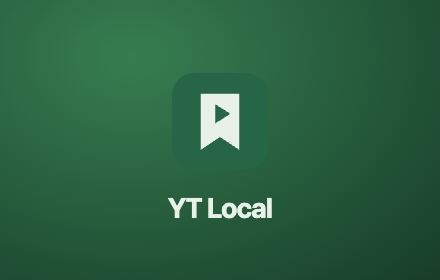
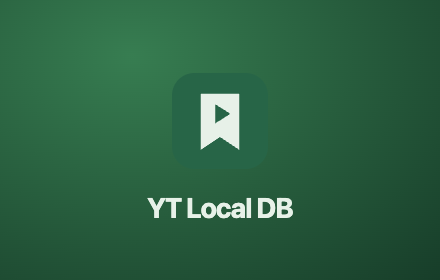
Rename extension to YT Local DB
Update the popup, store listing, screenshots, and privacy docs. Bump to 0.1.1 for the renamed Chrome Web Store upload.

Changed region(s): [[0.325, 0.6857, 0.6795, 0.8]]

diff --git a/popup.html b/popup.html
@@ -3,14 +3,14 @@
   <head>
     <meta charset="utf-8">
     <meta name="viewport" content="width=device-width, initial-scale=1">
-    <title>YT Local</title>
+    <title>YT Local DB</title>
     <link rel="stylesheet" href="popup.css">
     <script src="popup.js" defer></script>
   </head>
   <body>
     <header>
       <div class="heading">
-        <h1>YT Local<span>.</span></h1>
+        <h1>YT Local DB<span>.</span></h1>
         <span class="local-badge">On device</span>
       </div>
       <p>Pick up where you left off.</p>

diff --git a/content.js b/content.js
@@ -50,7 +50,7 @@
 
   function reportError(error) {
     lastSavedVideo = null; // Allow the next playback event to retry.
-    console.warn("YT Local could not save playback progress:", error);
+    console.warn("YT Local DB could not save playback progress:", error);
   }
 
   for (const event of ["timeupdate", "pause", "seeked", "ended"]) {

diff --git a/popup.js b/popup.js
@@ -61,7 +61,7 @@ async function refresh() {
 function showError(error) {
   status.hidden = false;
   status.textContent = "Could not access local history. Try reopening the extension.";
-  console.error("YT Local:", error);
+  console.error("YT Local DB:", error);
 }
 
 clearButton.addEventListener("click", async () => {

diff --git a/store/LISTING.md b/store/LISTING.md
@@ -6,8 +6,8 @@ These are prepared listing materials, not confirmation of a store publication. T
 
 Run `npm run package` to create:
 
-- `dist/yt-local-db-0.1.0.zip` — upload this as the extension package.
-- `dist/yt-local-db-store-assets-0.1.0.zip` — unpack this for listing images and this guide; do not upload it as the extension package.
+- `dist/yt-local-db-0.1.1.zip` — upload this as the extension package.
+- `dist/yt-local-db-store-assets-0.1.1.zip` — unpack this for listing images and this guide; do not upload it as the extension package.
 
 Listing images:
 
@@ -20,7 +20,7 @@ The screenshots use fictional example history, not the developer's personal view
 
 ## Store listing
 
-**Name:** YT Local
+**Name:** YT Local DB
 
 **Summary (from the manifest):**
 
@@ -35,7 +35,7 @@ Remember YouTube videos and playback progress locally, without enabling YouTube 
 ```text
 Remember where you stopped, without enabling YouTube watch history.
 
-YT Local saves your YouTube watch history and playback progress in this browser. Open the toolbar popup to find a recently watched video and resume from your saved position.
+YT Local DB saves your YouTube watch history and playback progress in this browser. Open the toolbar popup to find a recently watched video and resume from your saved position.
 
 Features
 • Local watch history, most recent first
@@ -47,7 +47,7 @@ Features
 
 No extension account, backend, analytics, or cloud sync. Open source under the MIT license.
 
-Important: keep YouTube's own watch history paused yourself. YT Local does not change your Google account settings, hide recommendations, or prevent YouTube from observing normal page and video requests.
+Important: keep YouTube's own watch history paused yourself. YT Local DB does not change your Google account settings, hide recommendations, or prevent YouTube from observing normal page and video requests.
 
 Desktop Chrome only. Regular YouTube watch-page videos are supported; Shorts, embeds, and live streams with unbounded duration are not. Opening a video outside the popup does not automatically seek to the saved position. Removing the extension deletes its saved data.
 
@@ -111,7 +111,7 @@ No extension account or credentials are required.
 1. In a normal desktop Chrome window, open a regular public YouTube video, for example https://www.youtube.com/watch?v=aqz-KE-bpKQ.
 2. Keep YouTube watch history paused if signed in; the extension does not change that setting.
 3. Play or seek the video to at least 30 seconds, then pause. Allow up to five seconds if YouTube is still loading its watch-page metadata.
-4. Open YT Local from the toolbar. Verify the video title, playback timestamp, and progress bar appear.
+4. Open YT Local DB from the toolbar. Verify the video title, playback timestamp, and progress bar appear.
 5. Click Resume. Verify a new YouTube tab opens with the saved timestamp in the URL.
 6. Delete the entry. Verify it disappears. Further playback of that video may record it again.
 7. Add another video and use Clear all. Verify the confirmation prompt and empty history state.
@@ -123,7 +123,7 @@ The extension does not automatically seek on unrelated YouTube visits and does n
 
 1. Sign in to the [Chrome Web Store developer dashboard](https://chrome.google.com/webstore/devconsole).
 2. If needed, register, accept Google's agreements, and pay the one-time registration fee yourself. Set your publisher name, verify the contact email, and complete any account/security checks required by the dashboard.
-3. Add a new item and upload `dist/yt-local-db-0.1.0.zip`.
+3. Add a new item and upload `dist/yt-local-db-0.1.1.zip`.
 4. Fill the listing, upload the icon, promotional tile, and screenshots, and paste the homepage/support/privacy URLs.
 5. Fill Privacy practices using the answers above; review them before certifying.
 6. Choose free, public distribution and your intended regions. Complete any account-specific declarations shown by Google.

diff --git a/PRIVACY.md b/PRIVACY.md
@@ -1,6 +1,6 @@
 # Privacy
 
-YT Local stores these fields for each watched video:
+YT Local DB stores these fields for each watched video:
 
 - YouTube video ID and title
 - Last playback position and video duration
@@ -8,7 +8,7 @@ YT Local stores these fields for each watched video:
 
 Data is stored in `chrome.storage.local` in the current browser profile and used only to provide the local history and resume feature. The extension does not use Chrome Sync, a server, analytics, Google account APIs, or remote images, fonts, or scripts. It makes no application network requests. Clicking Resume or a video title opens the normal YouTube website with that video's ID and playback timestamp in the URL.
 
-YT Local's use of user data complies with the Chrome Web Store User Data Policy, including its Limited Use requirements. Saved history is not sold or shared with the developer or third parties, is not used for advertising or credit decisions, and is not available for the developer to read.
+YT Local DB's use of user data complies with the Chrome Web Store User Data Policy, including its Limited Use requirements. Saved history is not sold or shared with the developer or third parties, is not used for advertising or credit decisions, and is not available for the developer to read.
 
 The extension requests only the `storage` API permission and content-script access to `https://www.youtube.com/*`. Access to the whole desktop YouTube site is needed because navigating from the homepage to a video often happens without a page reload. Only regular `/watch?v=…` pages are recorded. Incognito operation is disabled. No browser-wide history is accessed.
 

diff --git a/README.md b/README.md
@@ -1,4 +1,4 @@
-# YT Local
+# YT Local DB
 
 **Pick up where you left off. Keep your history local.**
 
@@ -6,7 +6,7 @@ A tiny, open-source Chrome extension that remembers YouTube videos and playback 
 
 Repository name: `yt-local-db`. No database library, framework, runtime dependencies, account, or server.
 
-![YT Local popup with example history](store/screenshot-light-1280x800.png)
+![YT Local DB popup with example history](store/screenshot-light-1280x800.png)
 
 ## What it does
 
@@ -24,7 +24,7 @@ Progress saves at most every five seconds during playback, and also on pause, se
 2. Open `chrome://extensions` in desktop Chrome.
 3. Enable **Developer mode**.
 4. Click **Load unpacked** and select the unzipped extension folder (or cloned `yt-local-db` folder) containing `manifest.json`.
-5. Pin **YT Local** to the toolbar and reload any already-open YouTube tabs.
+5. Pin **YT Local DB** to the toolbar and reload any already-open YouTube tabs.
 6. Keep YouTube watch history **paused** in your Google account settings. The extension does not change that setting.
 
 Watch a regular video at `www.youtube.com/watch`, then open the extension popup to resume it later. Resume opens a new tab using YouTube's timestamp URL. Opening a video elsewhere does **not** automatically seek to the saved position.
